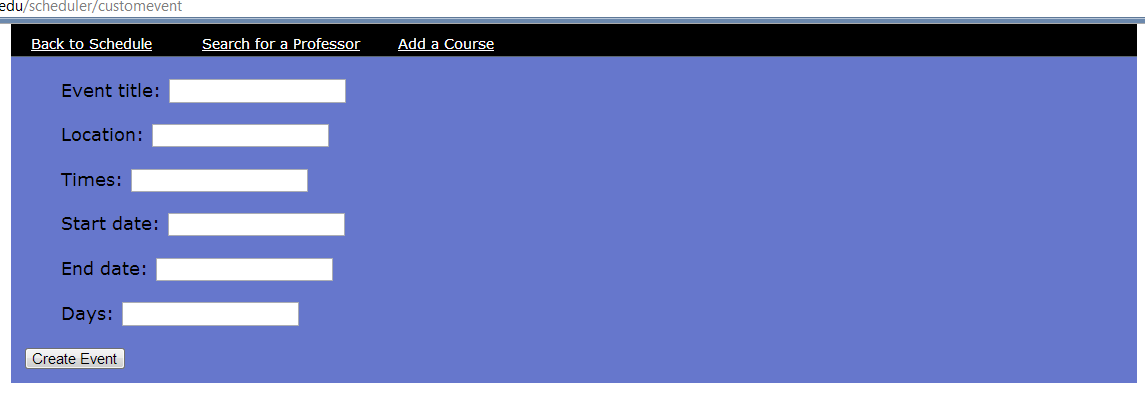
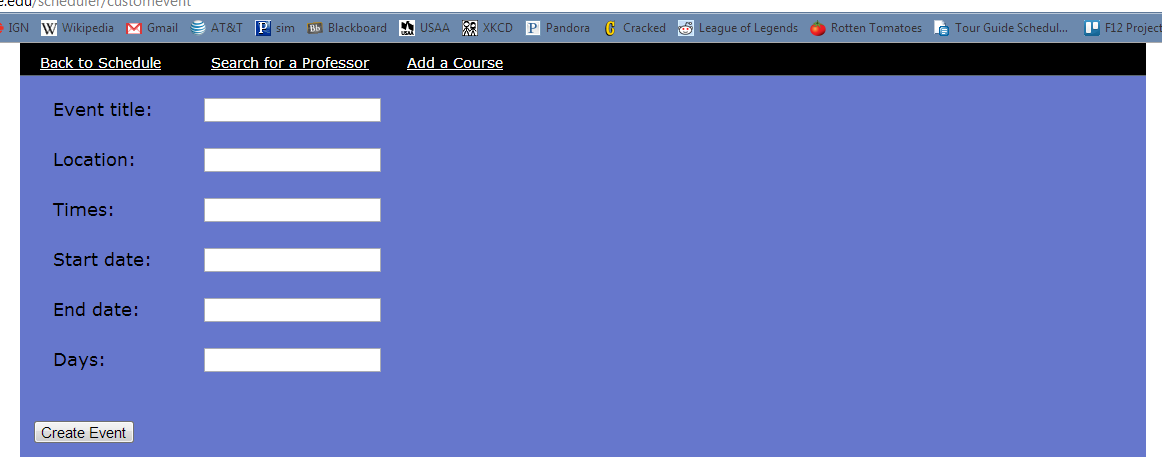
error msg fix

Changed region(s): [[0.0, 0.0, 1.0, 0.9925]]

diff --git a/django/scheduler/course_scheduler/templates/custom.html b/django/scheduler/course_scheduler/templates/custom.html
@@ -23,7 +23,9 @@
 <form action="/scheduler/customevent" method="post">{% csrf_token %}
 <div style="padding-left:20px; width: 300px; padding-bottom: 20px">
 {% for field in form %}
-           <span style="margin-bottom: 10px;"><span > {{ field.label_tag }}:</span> <span style="float:right"> {{ field }} {{ field.errors }}</span></span><br/><br/>
+           <span style="margin-bottom: 10px;"><span > {{ field.label_tag }}:</span> <span style="float:right"> {{ field }} </span><br/><br/>
+		   {% if field.errors %} {{ field.errors }} {% endif %} <br/><br/>
+		   </span>
     {% endfor %}
 </div>
 <!--<label for="e_name">Event Title:</label>
